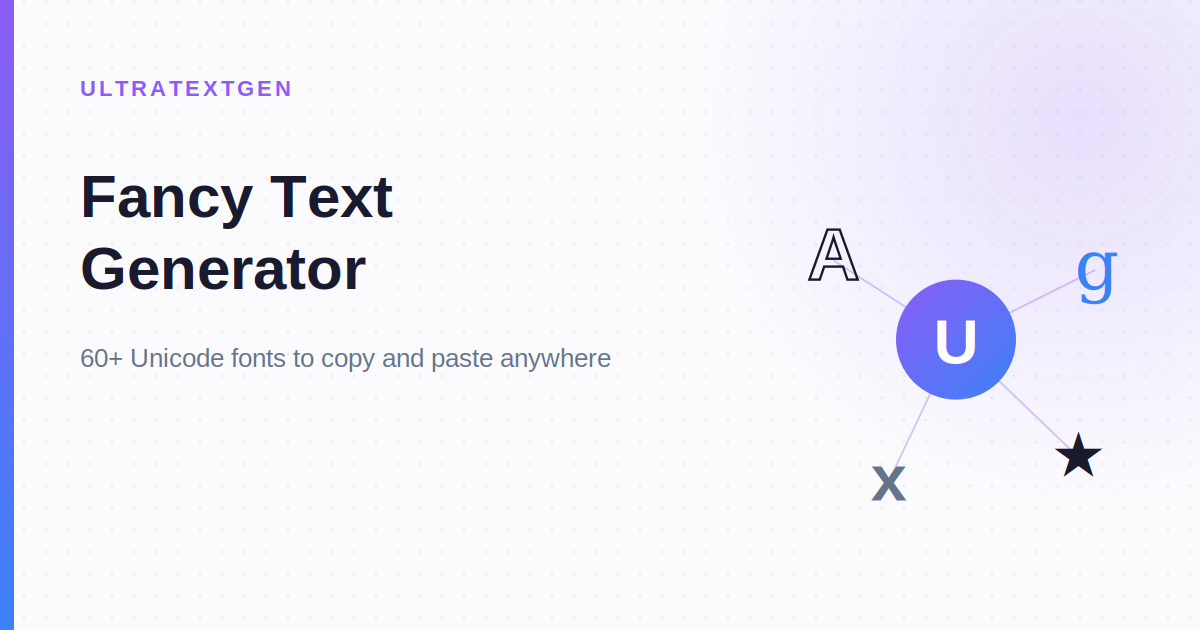
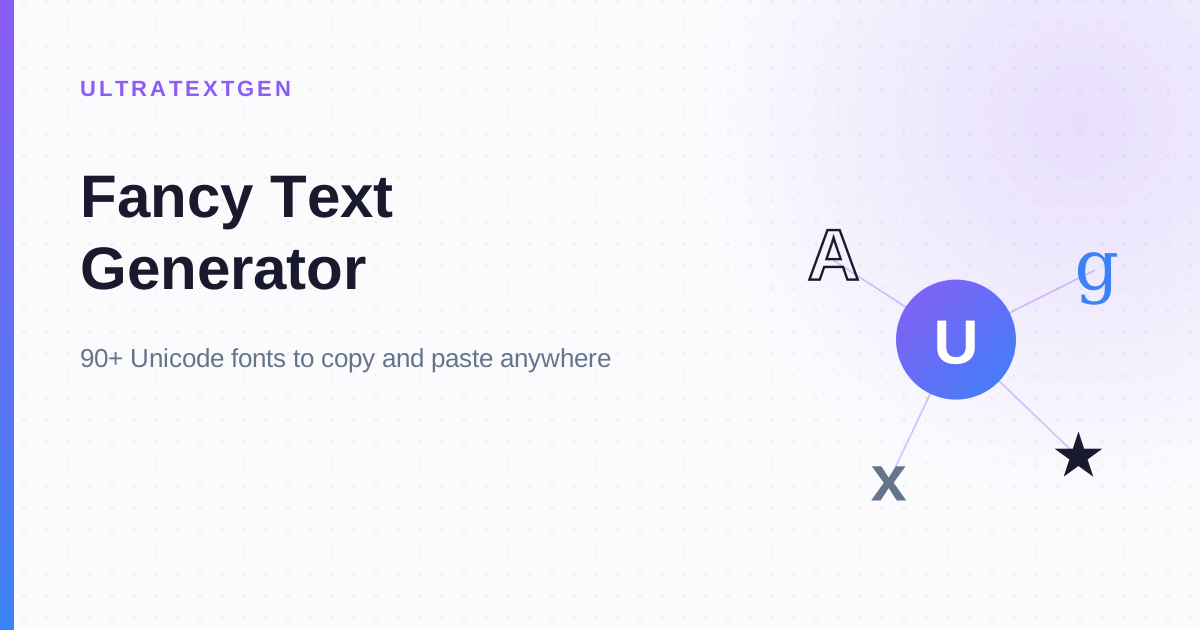
fix(home): the English homepage social card says 90+ Unicode fonts, as the page does
The card still read '60+ Unicode fonts' after the homepage title, meta, hero line and
JSON-LD moved to 90+. The 60+ lived in the generator's homepage-card string, so the string
is changed and only that card is re-rendered (a full generator run rewrites every asset).
Rendered with the pinned art fontconfig; the same environment reproduces the committed
card to within 1.1% of pixels (anti-aliasing), so nothing else on the card moves.

Claude-Session: https://claude.ai/code/session_017PZTv38j9BcY98YaVCfvtX

diff --git a/scripts/generate-site-art.py b/scripts/generate-site-art.py
@@ -4210,7 +4210,7 @@ def main():
     cairosvg.svg2png(
         bytestring=og_png_svg(
             HOME_CARD, "Fancy Text Generator",
-            "60+ Unicode fonts to copy and paste anywhere",
+            "90+ Unicode fonts to copy and paste anywhere",
             m_brand, K_SITE).encode(),
         write_to=os.path.join(OG, f"{HOME_CARD}.png"),
         output_width=1200, output_height=630)
